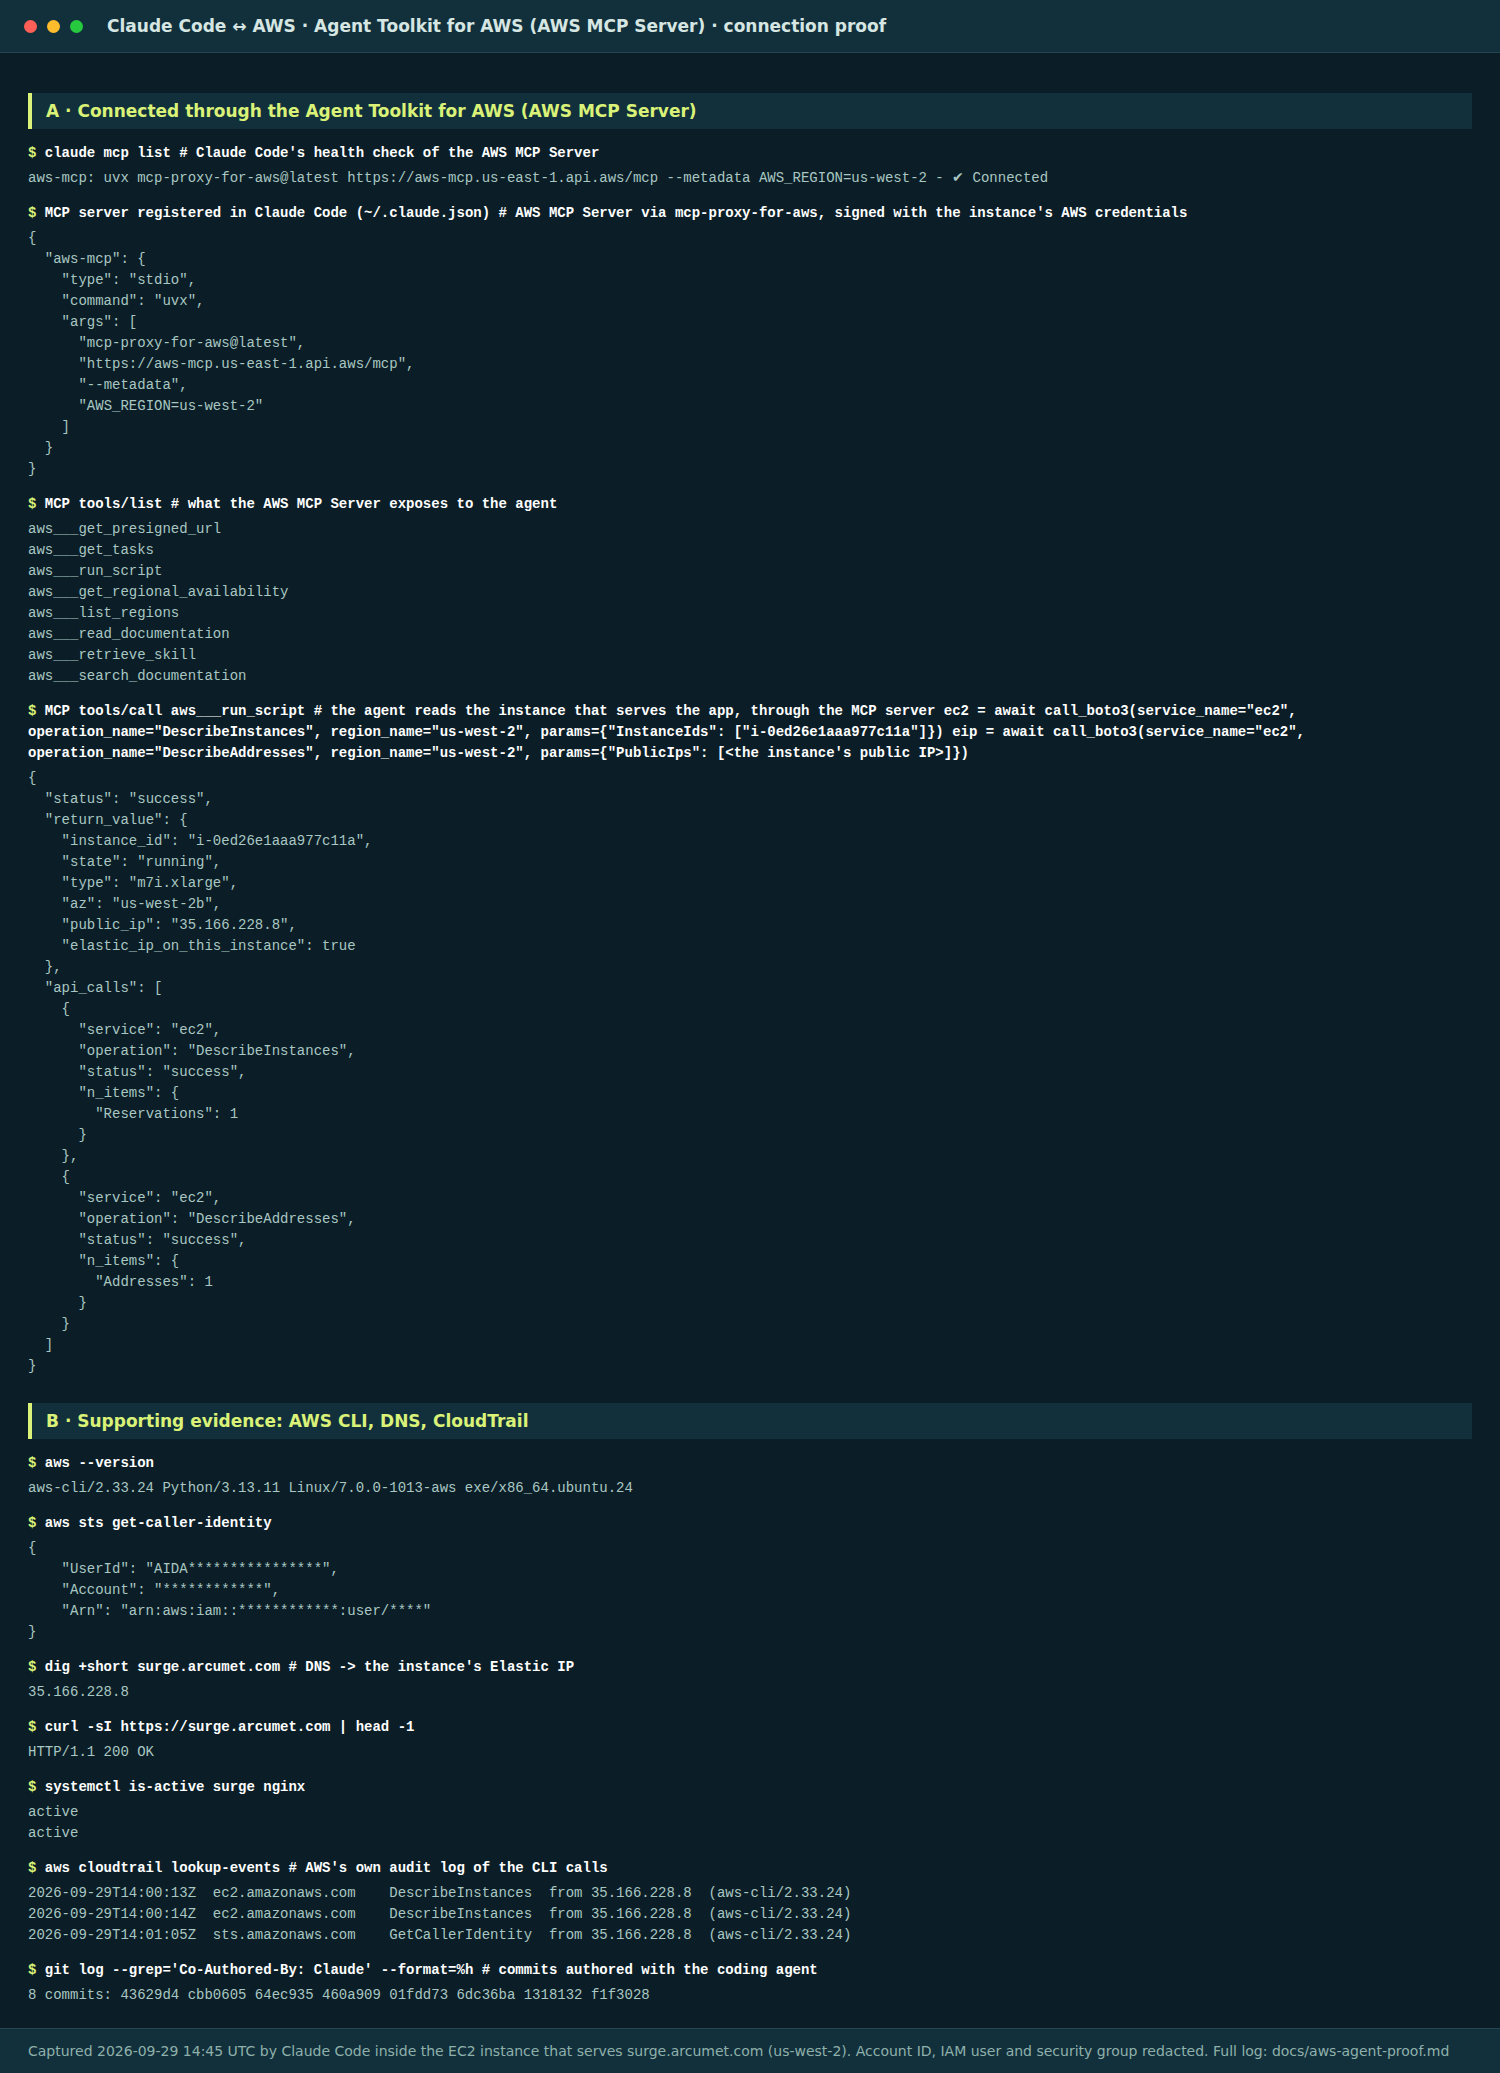
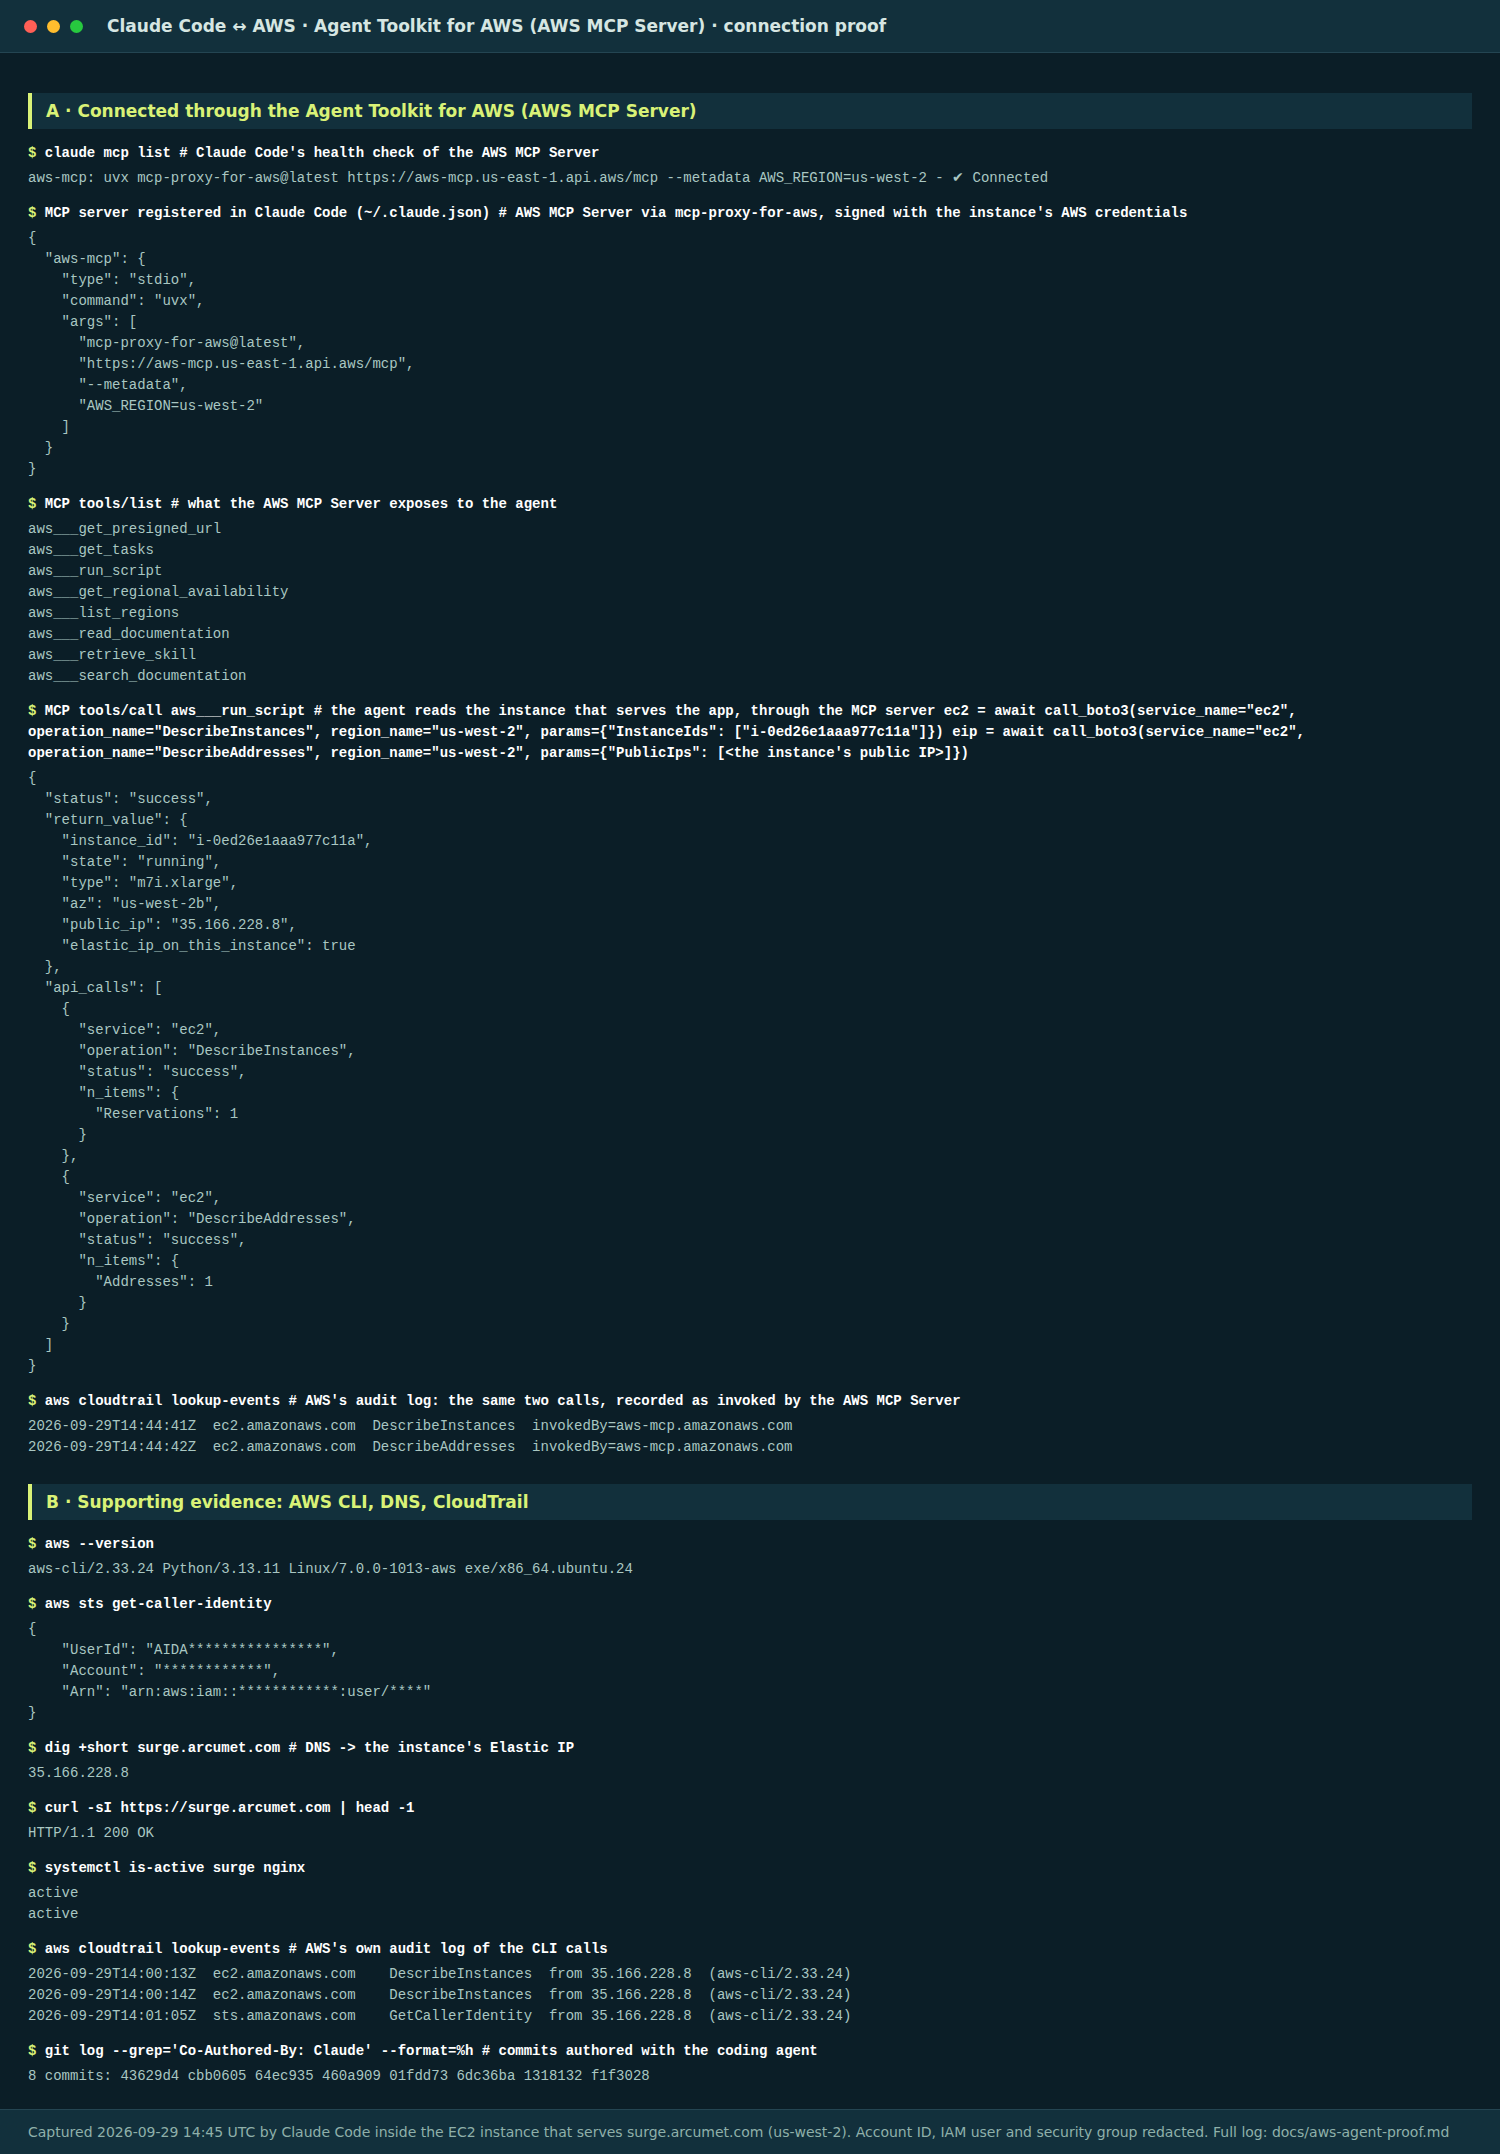
Add CloudTrail confirmation of MCP-issued calls to proof

diff --git a/SUBMISSION.md b/SUBMISSION.md
@@ -112,9 +112,9 @@ Surge is live and public today on AWS; the measurements above are its proof poin
 
 ![Claude Code connected to AWS through the AWS MCP Server, with supporting CLI and CloudTrail evidence](docs/aws-agent-proof.png)
 
-**A — the connection itself.** Claude Code's health check reports `aws-mcp … ✔ Connected`; the agent then called `DescribeInstances` and `DescribeAddresses` through the AWS MCP Server, and both returned `success`. The instance it read (`i-0ed26e1aaa977c11a`, us-west-2, `35.166.228.8`, Elastic IP attached) is the one `surge.arcumet.com` resolves to, and the site returns `HTTP 200` from it.
+**A — the connection itself.** Claude Code's health check reports `aws-mcp … ✔ Connected`; the agent then called `DescribeInstances` and `DescribeAddresses` through the AWS MCP Server, and both returned `success`. **AWS CloudTrail independently logged those two calls as `invokedBy=aws-mcp.amazonaws.com`.** The instance it read (`i-0ed26e1aaa977c11a`, us-west-2, `35.166.228.8`, Elastic IP attached) is the one `surge.arcumet.com` resolves to, and the site returns `HTTP 200` from it.
 
-**B — supporting evidence.** The AWS CLI authenticates (`sts get-caller-identity`); **AWS CloudTrail independently recorded the agent's CLI calls** from the instance's own IP; and every commit made with the agent carries a `Co-Authored-By: Claude` trailer, listed by hash. Account ID, IAM user and security group are redacted; the full log is in [`docs/aws-agent-proof.md`](docs/aws-agent-proof.md).
+**B — supporting evidence.** The AWS CLI authenticates (`sts get-caller-identity`); **CloudTrail also recorded the agent's CLI calls** from the instance's own IP; and every commit made with the agent carries a `Co-Authored-By: Claude` trailer, listed by hash. Account ID, IAM user and security group are redacted; the full log is in [`docs/aws-agent-proof.md`](docs/aws-agent-proof.md).
 
 ## Demo outline (67 seconds, narrated)
 

diff --git a/docs/aws-agent-proof.md b/docs/aws-agent-proof.md
@@ -74,6 +74,12 @@ eip = await call_boto3(service_name="ec2", operation_name="DescribeAddresses", r
 }
 ```
 
+```
+$ aws cloudtrail lookup-events   # AWS's audit log: the same two calls, recorded as invoked by the AWS MCP Server
+2026-09-29T14:44:41Z  ec2.amazonaws.com  DescribeInstances  invokedBy=aws-mcp.amazonaws.com
+2026-09-29T14:44:42Z  ec2.amazonaws.com  DescribeAddresses  invokedBy=aws-mcp.amazonaws.com
+```
+
 ## B. Supporting evidence: AWS CLI, DNS and AWS's own audit log
 
 ```
@@ -121,6 +127,7 @@ $ git log --grep='Co-Authored-By: Claude' --format=%h   # commits authored with 
 ## What this shows
 
 - **The agent is connected to AWS through the AWS MCP Server**: Claude Code's health check reports it connected, and the agent issued real API calls (`DescribeInstances`, `DescribeAddresses`) through it that succeeded.
+- **AWS itself recorded those calls as coming from the AWS MCP Server** (`invokedBy=aws-mcp.amazonaws.com` in CloudTrail), so the connection is confirmed by AWS's audit log, not only by the agent's output.
 - **It is the same account and machine as the live app**: the instance the MCP call returned has the Elastic IP that `surge.arcumet.com` resolves to, and the site returns HTTP 200 from it.
 - **AWS independently recorded the agent's CLI calls** in CloudTrail, from the instance's own IP, with the same CLI version shown in `aws --version`.
 - **The agent operates the deployment**: `npm run deploy` lints, type-checks, builds, restarts the systemd service and verifies the live page.
